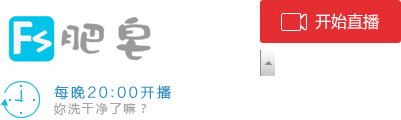
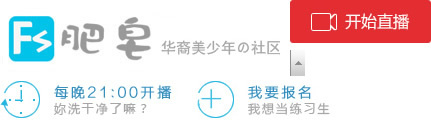
1.2 modified

diff --git a/web/css/default_v4.css b/web/css/default_v4.css
@@ -96,12 +96,13 @@ select {padding:5px;border:#e0e0e0 1px solid;}
 .topbar li.edit {width:39px;cursor:pointer;position:relative;z-index:99;}
 .topbar li.edit em {background:url(i4.gif) center center no-repeat;position:absolute;z-index:99;}
 .topbar li.edit span.editBg {width:39px;height:34px;background:url(editBg.gif) left bottom no-repeat;display:none;position:absolute;z-index:99;}
-.topbar li.edit .editCont {padding:10px 0;width:260px;border:#ddd 1px solid;background:#fff;position:absolute;top:33px;right:0;_right:-1px;z-index:98;display:none;}
+.topbar li.edit .editCont {padding:10px 0 0 0;width:260px;border:#ddd 1px solid;background:#fff;position:absolute;top:33px;right:0;_right:-1px;z-index:98;display:none;}
 .topbar li.edit .editInner {width:220px;}
 .topbar li.edit .editInner span {padding:10px 0;color:#999;display:block;}
 .topbar li.edit .editInner span b {font-size:16px;color:#4096c5;}
 .topbar li.edit .editInner span input.fi-nickname {padding:2px 5px;height:22px;line-height:22px;border:#e2e2e2 1px solid;-webkit-border-radius:2px;-moz-border-radius:2px;border-radius:2px;}
 .topbar li.edit .editInner span.editBtn {margin-top:9px;padding:15px 0;border-top:#E2E2E2 1px solid;text-align:center;}
+.editNotice {padding:10px;font-weight:bold;font-size:14px;color:#E42D31;text-align:center;background:#f5f5f5;border-top:#ddd 1px solid;}
 .btn-confirm,.btn-cancel {margin:0 11px;width:68px;height:31px;}
 .btn-confirm {background:url(btn-confirm.gif);}
 .btn-cancel {background:url(btn-cancel.gif);}
@@ -132,8 +133,9 @@ select {padding:5px;border:#e0e0e0 1px solid;}
 .topbar li.share a {margin:0 5px;padding-left:20px;background:url(i8.gif) left center no-repeat;}
 
 .top-column2 {height:90px;}
-.logo {width:250px;height:80px;background:url(main.jpg);display:block;top:5px;left:0;}
+.logo {width:282px;height:80px;background:url(main.jpg);display:block;top:5px;left:0;}
 .topTime {width:180px;height:40px;background:url(main.jpg) 0 -80px;top:25px;right:10px;}
+.topJoin {width:144px;height:40px;background:url(main.jpg) -190px -80px;top:25px;right:240px;}
 .menuOuter {height:40px;background:#23B6E2;border-top:#23b6e2 2px solid;border-bottom:#5ca7dc 2px solid;}
 .menuList a {float:left;padding:0 20px;height:40px;font-size:16px;color:#fff;line-height:40px;display:block;}
 .menuList a.cur,.menuList a:hover {font-weight:bold;background:#86CEE6;text-decoration:none;}

diff --git a/web/css/default_v2.css b/web/css/default_v2.css
@@ -143,7 +143,7 @@ a.follow {padding:2px 5px;color:#fff;background:#4598da;text-decoration:none;}
 .roomList dd {float:left;margin-left:10px;width:208px;height:75px;}
 
 .live {padding:15px 0;height:43px;border-bottom:#ddd 1px solid;}
-.btn-live {margin:0 auto;width:141px;height:43px;background:url(main.jpg) -260px 0;display:block;}
+.btn-live {margin:0 auto;width:141px;height:43px;background:url(main.jpg) -290px 0;display:block;}
 h4 {font-weight:bold;font-size:16px;color:#999;line-height:30px;position:relative;}
 h4 b {font:bold 16px Arial, Helvetica, sans-serif;color:#c00;line-height:30px;}
 .weekPayTab {height:30px;line-height:30px;top:0;right:0;}
@@ -216,7 +216,7 @@ dl.gifts dd span {padding-right:5px;height:20px;line-height:20px;background:url(
 .roomAct li {float:left;padding:0 2px;height:28px;line-height:28px;}
 .roomAct li span {height:26px;border:#909090 1px solid;display:block;}
 .roomAct li span i {float:left;height:26px;line-height:26px;text-align:center;display:block;overflow:hidden}
-.roomAct li span em {float:right;width:16px;height:26px;background:url(main.jpg) -260px -50px;cursor:pointer}
+.roomAct li span em {float:right;width:16px;height:26px;background:url(main.jpg) -290px -50px;cursor:pointer}
 .roomAct li.giftsNum {width:60px;}
 .roomAct li.giftsNum span i {width:40px;}
 .roomAct li.giftsName {width:120px;}
